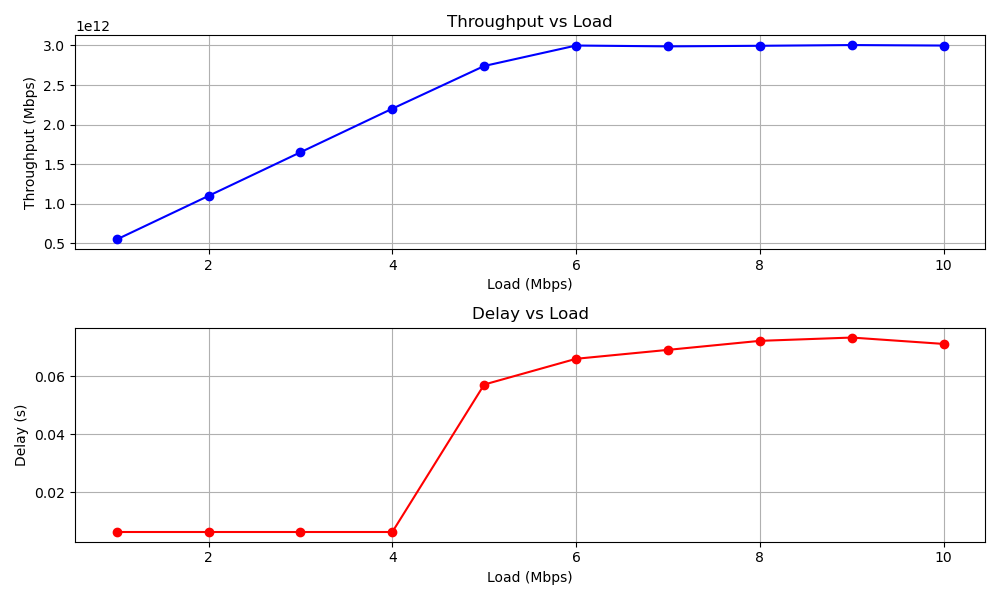
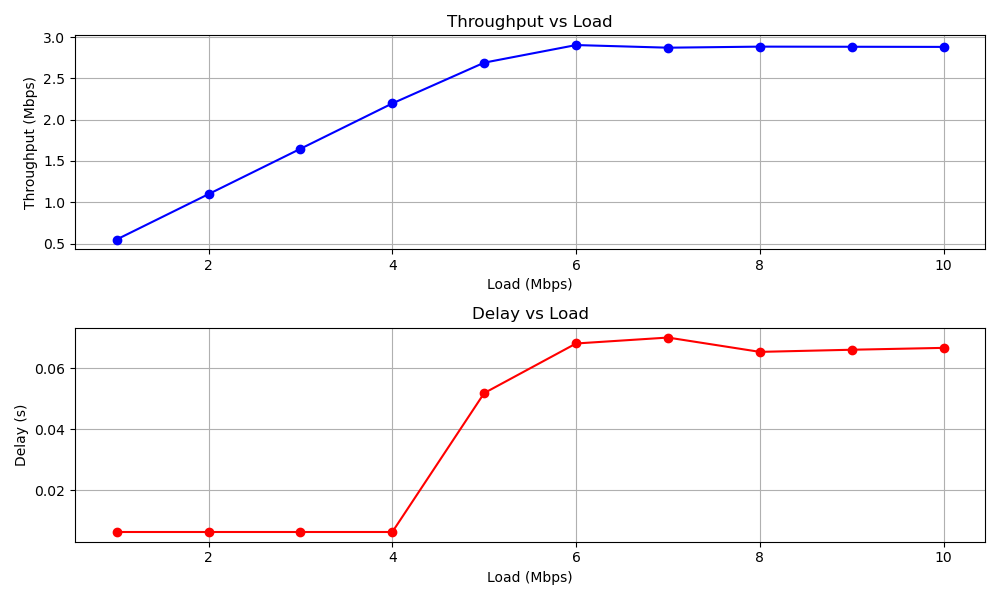
TP unit fix, reduce sim duration to 10 from 50

diff --git a/partB.cc b/partB.cc
@@ -13,7 +13,7 @@
 using namespace ns3;
 
 #ifndef SIM_END
-#define SIM_END 5.0 // make sure this is long enough for the system to stabilize
+#define SIM_END 10.0 
 #endif
 
 NS_LOG_COMPONENT_DEFINE("PartB");
@@ -51,7 +51,7 @@ void RunSimulation(double load, std::string tcpVariant, std::ofstream & outFile)
     PointToPointHelper p2p;
     p2p.SetDeviceAttribute("DataRate", StringValue("100Mbps")); // router & dest conn. rate: 100Mbps
     p2p.SetChannelAttribute("Delay", StringValue("1ms"));
-    // p2p.SetQueue("ns3::DropTailQueue", "MaxSize", StringValue("1p")); // fifo queue in every connection
+    p2p.SetQueue("ns3::DropTailQueue", "MaxSize", StringValue("1p")); // fifo queue in every connection
 
     // A3 - Router Connection
     NetDeviceContainer routerDevices = p2p.Install(lanNodes.Get(2), routerNode.Get(0));
@@ -126,8 +126,7 @@ void RunSimulation(double load, std::string tcpVariant, std::ofstream & outFile)
         Ipv4FlowClassifier::FiveTuple t = classifier->FindFlow(iter->first);
 
         double simulationTime = (iter->second.timeLastRxPacket.GetSeconds() - iter->second.timeFirstTxPacket.GetSeconds());
-        // double load = ((iter->second.txBytes * 8.0) / simulationTime) / 0.000001; // Load in Mbps
-        double throughput = ((iter->second.rxBytes * 8.0) / simulationTime) / 0.000001; // Throughput in Mbps
+        double throughput = ((iter->second.rxBytes * 8.0) / simulationTime) * 0.000001f; // Throughput in Mbps
         double delay = (iter->second.delaySum.GetSeconds() / iter->second.rxPackets); // Average delay in seconds
         double packetLoss = ((double)(iter->second.txPackets - iter->second.rxPackets) / iter->second.txPackets) * 100.0f; // Packet loss in Mbps
 
@@ -154,7 +153,7 @@ int main(int argc, char *argv[]) {
 
     for (const auto& variant : tcpVariants) {
         std::cout << "\nTCP Variant: " << variant << std::endl;
-        for (double load = 10.0; load <= 110.0; load += 10.0) {
+        for (double load = 10.0; load <= 105.0; load += 10.0) {
             std::cout << "\nLoad: " << load << " Mbps" << std::endl;
             RunSimulation(load, variant, outFile);
         }

diff --git a/partA.cc b/partA.cc
@@ -10,7 +10,7 @@
 using namespace ns3;
 
 #ifndef SIM_END
-#define SIM_END 5.0
+#define SIM_END 10.0
 #endif
 
 NS_LOG_COMPONENT_DEFINE("PartA");
@@ -108,7 +108,6 @@ void RunSimulation(int load, std::ofstream & outFile) {
     Simulator::Stop(Seconds(SIM_END));
     Simulator::Run();
 
-
     flowmon->CheckForLostPackets();
     Ptr<Ipv4FlowClassifier> classifier = DynamicCast<Ipv4FlowClassifier>(flowmonitor.GetClassifier());
     FlowMonitor::FlowStatsContainer stats = flowmon->GetFlowStats();
@@ -119,7 +118,7 @@ void RunSimulation(int load, std::ofstream & outFile) {
 
         double simulationTime = (iter->second.timeLastRxPacket.GetSeconds() - iter->second.timeFirstTxPacket.GetSeconds());
         // double load = ((iter->second.txBytes * 8.0) / simulationTime) / 0.000001; // Load in Mbps
-        double throughput = ((iter->second.rxBytes * 8.0) / simulationTime) / 0.000001; // Throughput in Mbps
+        double throughput = ((iter->second.rxBytes * 8.0) / simulationTime) * 0.000001f; // Throughput in Mbps
         double delay = (iter->second.delaySum.GetSeconds() / iter->second.rxPackets); // Average delay in seconds
 
         std::cout << "Flow " << iter->first << " (" << t.sourceAddress << " -> " << t.destinationAddress << ")\n";
@@ -140,7 +139,7 @@ int main(int argc, char *argv[]) {
     CommandLine cmd;
     cmd.Parse(argc, argv);
 
-    std::ofstream outFile("flow_metrics.csv");
+    std::ofstream outFile("a_metrics.csv");
     outFile << "Flow,Load (Mbps),Throughput (Mbps),Delay (s)\n";
 
     std::cout << "Running Part A simulations..." << std::endl;
